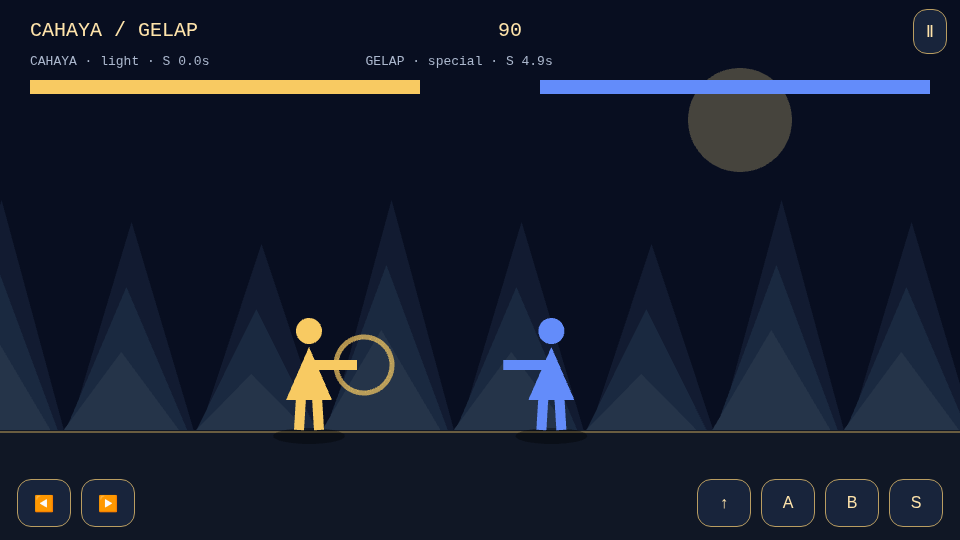
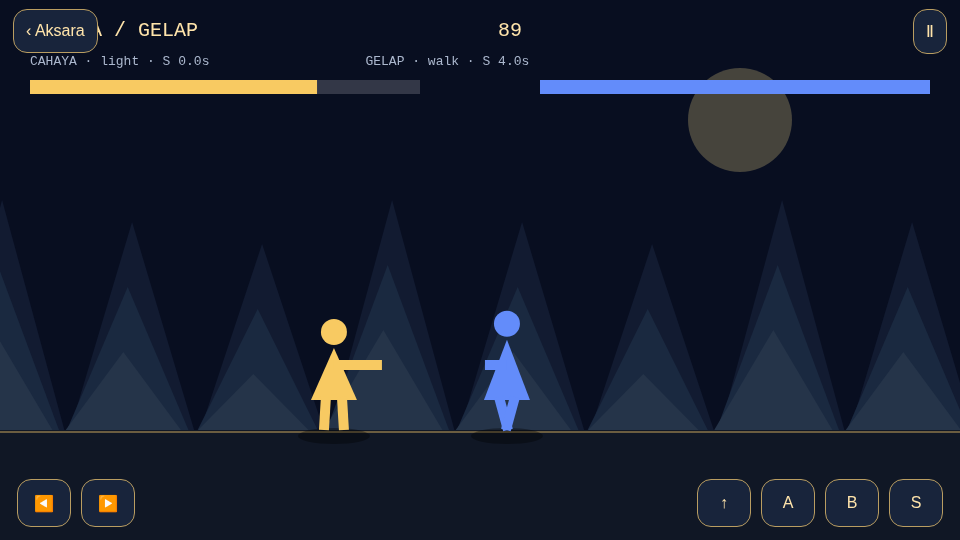
Isolate fullscreen landscape game and guard Phaser rendering with Canvas recovery

diff --git a/android-native/app/src/main/assets/game/game.js b/android-native/app/src/main/assets/game/game.js
@@ -1,15 +1,28 @@
-const input={axis:0},held=new Map();let scene,match,paused=true,audio;
+const input={axis:0},held=new Map();let scene,match=new AksaraCombat.Combat(),paused=true,audio,started=false;
 function sound(){try{audio??=new (window.AudioContext||window.webkitAudioContext)();audio.resume();const o=audio.createOscillator(),g=audio.createGain();o.type='triangle';o.frequency.setValueAtTime(180,audio.currentTime);o.frequency.exponentialRampToValueAtTime(45,audio.currentTime+.12);g.gain.setValueAtTime(.08,audio.currentTime);g.gain.exponentialRampToValueAtTime(.001,audio.currentTime+.15);o.connect(g);g.connect(audio.destination);o.start();o.stop(audio.currentTime+.16);}catch{}}
-function pause(){paused=true;held.clear();input.axis=0;input.jump=false;input.attack=null;document.querySelector('#menu').style.display='grid';document.querySelector('#message').textContent='Dijeda · sambung atau mula semula';document.querySelector('#start').textContent='Sambung';audio?.suspend();}
+function pause(){paused=true;held.clear();input.axis=0;input.jump=false;input.attack=null;document.querySelector('#menu').style.display='grid';document.querySelector('#message').textContent='Dijeda · sambung atau mula semula';document.querySelector('#start').textContent=started?'Sambung':'Mula pertarungan';audio?.suspend();}
 window.aksaraPause=pause;document.addEventListener('visibilitychange',()=>{if(document.hidden)pause();});window.addEventListener('blur',pause);
-document.querySelector('#pause').onclick=pause;document.querySelector('#start').onclick=()=>{if(!match||match.result||document.querySelector('#start').textContent!=='Sambung'){match=new AksaraCombat.Combat(document.querySelector('#hero').value,+document.querySelector('#difficulty').value);}paused=false;document.querySelector('#menu').style.display='none';sound();};
+document.querySelector('#pause').onclick=pause;document.querySelector('#start').onclick=()=>{if(!window.gameDiagnostics.ready)return;started=true;if(!match||match.result||document.querySelector('#start').textContent!=='Sambung'){match=new AksaraCombat.Combat(document.querySelector('#hero').value,+document.querySelector('#difficulty').value);}paused=false;document.querySelector('#menu').style.display='none';sound();};
 for(const b of document.querySelectorAll('#controls button')){b.onpointerdown=e=>{e.preventDefault();b.setPointerCapture(e.pointerId);held.set(e.pointerId,b);updateInput();};b.onpointerup=b.onpointercancel=b.onlostpointercapture=e=>{held.delete(e.pointerId);updateInput();};}
 function updateInput(){input.axis=0;input.jump=false;input.attack=null;for(const b of held.values()){if(b.dataset.axis)input.axis+=+b.dataset.axis;else if(b.dataset.action==='jump')input.jump=true;else input.attack=b.dataset.action;}input.axis=Math.sign(input.axis);}
 window.addEventListener('keydown',e=>{if(['ArrowLeft','ArrowRight','ArrowUp','Escape','z','x','c'].includes(e.key))e.preventDefault();if(e.key==='Escape')pause();if(e.key==='ArrowLeft')input.axis=-1;if(e.key==='ArrowRight')input.axis=1;if(e.key==='ArrowUp')input.jump=true;if('zxc'.includes(e.key))input.attack={z:'light',x:'heavy',c:'special'}[e.key];});window.addEventListener('keyup',e=>{if(e.key.startsWith('Arrow')){input.axis=0;input.jump=false;}if('zxc'.includes(e.key))input.attack=null;});
-class Arena extends Phaser.Scene{create(){scene=this;this.g=this.add.graphics();this.hud=this.add.text(30,18,'',{fontSize:'20px',color:'#ffe4ab'});this.stateText=this.add.text(30,54,'',{fontSize:'13px',color:'#acb8ce'});this.input.addPointer(5);}update(t,ms){if(!match)return;if(!paused)match.step(ms/1000,input);const g=this.g;g.clear();g.fillStyle(0x080e20);g.fillRect(0,0,960,540);g.fillStyle(0xb9aa74,.35);g.fillCircle(740,120,52);for(let layer=0;layer<3;layer++){g.fillStyle([0x121b31,0x1a2940,0x253449][layer]);for(let i=0;i<10;i++){const x=i*130-60+(match.fighters[0].x-480)*(.02+layer*.03);g.fillTriangle(x,440,x+65,200+layer*65+(i%3)*22,x+130,440);}}g.fillStyle(0x101725);g.fillRect(0,430,960,110);g.lineStyle(2,0xc5a45b,.5);g.lineBetween(0,432,960,432);
+class Arena extends Phaser.Scene{create(){console.info('AKSARA scene create');scene=this;this.game.canvas.addEventListener('webglcontextlost',()=>window.gameFailure('WebGL terhenti'));this.g=this.add.graphics();this.hud=this.add.text(30,18,'',{fontSize:'20px',color:'#ffe4ab'});this.stateText=this.add.text(30,54,'',{fontSize:'13px',color:'#acb8ce'});this.input.addPointer(5);}update(t,ms){if(!match)return;if(!paused)match.step(ms/1000,input);const g=this.g;g.clear();g.fillStyle(0x080e20);g.fillRect(0,0,960,540);g.fillStyle(0xb9aa74,.35);g.fillCircle(740,120,52);for(let layer=0;layer<3;layer++){g.fillStyle([0x121b31,0x1a2940,0x253449][layer]);for(let i=0;i<10;i++){const x=i*130-60+(match.fighters[0].x-480)*(.02+layer*.03);g.fillTriangle(x,440,x+65,200+layer*65+(i%3)*22,x+130,440);}}g.fillStyle(0x101725);g.fillRect(0,430,960,110);g.lineStyle(2,0xc5a45b,.5);g.lineBetween(0,432,960,432);
 match.fighters.forEach((f,i)=>{const color=f.id==='cahaya'?0xf8ca62:0x638cfa;g.fillStyle(0x000000,.35);g.fillEllipse(f.x,436,72,16);g.fillStyle(color,f.state==='hit'?.4:1);const bob=f.state==='walk'?Math.sin(t/65)*8:Math.sin(t/250)*2;g.fillCircle(f.x,f.y-100+bob,13);g.fillTriangle(f.x,f.y-84+bob,f.x-23,f.y-30,f.x+23,f.y-30);g.lineStyle(10,color);const stride=f.state==='walk'?Math.sin(t/70)*14:10;g.lineBetween(f.x-8,f.y-33,f.x-stride,f.y);g.lineBetween(f.x+8,f.y-33,f.x+stride,f.y);const m=AksaraCombat.moves[f.state],reach=m?48:22;g.lineBetween(f.x,f.y-65,f.x+f.facing*reach,f.y-65);if(m&&f.phase>=m.wind&&f.phase<m.wind+m.active){g.lineStyle(5,color,.7);g.strokeCircle(f.x+f.facing*(f.state==='special'?160:55),f.y-65,f.state==='special'?70:28);}g.fillStyle(0x333747);g.fillRect(i?540:30,80,390,14);g.fillStyle(color);g.fillRect(i?930-390*f.hp/100:30,80,390*f.hp/100,14);});
 for(const e of match.events){sound();this.cameras.main.shake(90,.004);}
 this.hud.setText('CAHAYA / GELAP                         '+Math.ceil(match.time));this.stateText.setText(match.fighters.map(f=>f.id.toUpperCase()+' · '+f.state+' · S '+f.cooldown.toFixed(1)+'s').join('                    '));
 if(match.result&&!paused){paused=true;document.querySelector('#menu').style.display='grid';document.querySelector('#message').textContent=match.result+' · '+match.fighters[0].id.toUpperCase();document.querySelector('#start').textContent='Main semula';}}
 }
-new Phaser.Game({type:Phaser.AUTO,parent:'game',width:960,height:540,backgroundColor:'#080c19',scale:{mode:Phaser.Scale.FIT,autoCenter:Phaser.Scale.CENTER_BOTH},scene:Arena,audio:{noAudio:true},fps:{target:60}});
+const renderer=new URLSearchParams(location.search).get('renderer');
+const game=new Phaser.Game({type:renderer==='canvas'?Phaser.CANVAS:Phaser.AUTO,parent:'game',width:960,height:540,backgroundColor:'#080c19',scale:{mode:Phaser.Scale.FIT,autoCenter:Phaser.Scale.CENTER_BOTH},scene:Arena,audio:{noAudio:true},fps:{target:60}});
+
+const viewport=document.querySelector('#game');
+new ResizeObserver(()=>{if(scene&&game.canvas&&viewport.clientWidth>0&&viewport.clientHeight>0)game.scale.refresh();}).observe(viewport);
+game.events.on(Phaser.Core.Events.POST_RENDER,()=>{
+ const d=window.gameDiagnostics,c=game.canvas,r=c.getBoundingClientRect();
+ d.frames++;d.width=r.width;d.height=r.height;d.renderer=game.renderer.type===Phaser.CANVAS?'canvas':'webgl';
+ if(!d.ready&&!d.error&&scene&&r.width>0&&r.height>0&&c.width>0&&c.height>0){
+  d.ready=true;console.info('AKSARA first frame '+JSON.stringify(d));
+  const b=document.querySelector('#start');b.disabled=false;b.textContent='Mula pertarungan';
+ }
+});
+game.events.on('contextlost',()=>window.gameFailure('Konteks grafik hilang'));

diff --git a/android-native/app/src/main/java/my/aksara/nativeapp/GameActivity.kt b/android-native/app/src/main/java/my/aksara/nativeapp/GameActivity.kt
@@ -1,0 +1,83 @@
+package my.aksara.nativeapp
+
+import android.os.Bundle
+import android.util.Log
+import android.view.ViewGroup
+import android.webkit.*
+import android.widget.*
+import androidx.activity.ComponentActivity
+import androidx.core.view.*
+import androidx.webkit.WebViewAssetLoader
+import java.io.ByteArrayInputStream
+
+/** Isolated landscape host. MainActivity and its ViewModel remain on the back stack. */
+class GameActivity : ComponentActivity() {
+    lateinit var gameWebView: WebView
+        private set
+    private lateinit var root: FrameLayout
+    private var destroyed=false
+    private var canvasFallback=false
+    override fun onCreate(savedInstanceState:Bundle?) {
+        super.onCreate(savedInstanceState)
+        WindowCompat.setDecorFitsSystemWindows(window,false)
+        WindowCompat.getInsetsController(window,window.decorView).apply {
+            hide(WindowInsetsCompat.Type.systemBars())
+            systemBarsBehavior=WindowInsetsControllerCompat.BEHAVIOR_SHOW_TRANSIENT_BARS_BY_SWIPE
+        }
+        root=FrameLayout(this)
+        root.setBackgroundColor(android.graphics.Color.rgb(8,12,25))
+        setContentView(root)
+        loadGame(intent.getBooleanExtra("forceCanvas",false))
+    }
+    private fun loadGame(canvas:Boolean) {
+        canvasFallback=canvas
+        if(::gameWebView.isInitialized){(gameWebView.parent as? ViewGroup)?.removeView(gameWebView);gameWebView.destroy()}
+        root.removeAllViews()
+        val loader=WebViewAssetLoader.Builder().addPathHandler("/assets/",WebViewAssetLoader.AssetsPathHandler(this)).build()
+        gameWebView=WebView(this).apply {
+            id=android.view.View.generateViewId()
+            settings.javaScriptEnabled=true
+            settings.allowFileAccess=false
+            settings.allowContentAccess=false
+            settings.domStorageEnabled=false
+            settings.mixedContentMode=WebSettings.MIXED_CONTENT_NEVER_ALLOW
+            webChromeClient=object:WebChromeClient(){
+                override fun onConsoleMessage(m:ConsoleMessage):Boolean {
+                    Log.println(if(m.messageLevel()==ConsoleMessage.MessageLevel.ERROR)Log.ERROR else Log.INFO,"AksaraGame", "${m.sourceId()}:${m.lineNumber()} ${m.message()}")
+                    return true
+                }
+            }
+            webViewClient=object:WebViewClient(){
+                override fun shouldOverrideUrlLoading(view:WebView,request:WebResourceRequest):Boolean {
+                    if(request.url.toString()=="https://appassets.androidplatform.net/exit")finish()
+                    return true
+                }
+                override fun shouldInterceptRequest(view:WebView,request:WebResourceRequest):WebResourceResponse =
+                    loader.shouldInterceptRequest(request.url)?:WebResourceResponse("text/plain","UTF-8",ByteArrayInputStream(ByteArray(0)))
+                override fun onReceivedError(view:WebView,request:WebResourceRequest,error:WebResourceError){
+                    Log.e("AksaraGame","WebView ${request.url}: ${error.description}")
+                    if(request.isForMainFrame)runOnUiThread{showRecovery("Fail permainan tidak dapat dimuatkan.")}
+                }
+                override fun onRenderProcessGone(view:WebView,detail:RenderProcessGoneDetail):Boolean {
+                    Log.e("AksaraGame","Renderer gone, crashed=${detail.didCrash()}")
+                    runOnUiThread{showRecovery("Renderer terhenti. Cuba Canvas atau kembali ke Aksara.")}
+                    return true
+                }
+            }
+            addOnLayoutChangeListener{_,l,t,r,b,_,_,_,_->Log.i("AksaraGame","viewport ${r-l}x${b-t}")}
+        }
+        root.addView(gameWebView,FrameLayout.LayoutParams(-1,-1))
+        gameWebView.loadUrl("https://appassets.androidplatform.net/assets/game/index.html"+if(canvas)"?renderer=canvas" else "")
+    }
+    private fun showRecovery(message:String) {
+        if(destroyed)return
+        val box=LinearLayout(this).apply{orientation=LinearLayout.VERTICAL;setPadding(32,32,32,32);setBackgroundColor(0xff101725.toInt())}
+        box.addView(TextView(this).apply{text=message;setTextColor(-1)})
+        box.addView(Button(this).apply{text="Cuba Canvas";setOnClickListener{loadGame(true)}})
+        box.addView(Button(this).apply{text="Kembali ke Aksara";setOnClickListener{finish()}})
+        root.addView(box,FrameLayout.LayoutParams(-1,-2))
+    }
+    override fun onPause(){if(::gameWebView.isInitialized){gameWebView.evaluateJavascript("window.aksaraPause && window.aksaraPause()",null);gameWebView.onPause()};super.onPause()}
+    override fun onResume(){super.onResume();if(::gameWebView.isInitialized)gameWebView.onResume()}
+    override fun onDestroy(){destroyed=true;if(::gameWebView.isInitialized){root.removeView(gameWebView);gameWebView.stopLoading();gameWebView.destroy()};super.onDestroy()}
+}

diff --git a/android-native/app/src/androidTest/java/my/aksara/nativeapp/NativeGameActivityTest.kt b/android-native/app/src/androidTest/java/my/aksara/nativeapp/NativeGameActivityTest.kt
@@ -1,0 +1,62 @@
+package my.aksara.nativeapp
+
+import android.content.Intent
+import android.content.pm.ActivityInfo
+import android.content.res.Configuration
+import android.os.SystemClock
+import androidx.test.core.app.ActivityScenario
+import androidx.test.platform.app.InstrumentationRegistry
+import androidx.test.uiautomator.UiDevice
+import org.junit.Assert.*
+import org.junit.Test
+import java.util.concurrent.CountDownLatch
+import java.util.concurrent.TimeUnit
+import java.util.concurrent.atomic.AtomicReference
+
+class NativeGameActivityTest {
+    private val instrument=InstrumentationRegistry.getInstrumentation()
+    private fun js(a:GameActivity,code:String):String {
+        val result=AtomicReference("");val done=CountDownLatch(1)
+        instrument.runOnMainSync{a.gameWebView.evaluateJavascript(code){result.set(it);done.countDown()}}
+        assertTrue(done.await(5,TimeUnit.SECONDS));return result.get()
+    }
+    private fun waitJs(a:GameActivity,code:String){
+        val until=SystemClock.uptimeMillis()+30000
+        while(SystemClock.uptimeMillis()<until){if(js(a,code)=="true")return;SystemClock.sleep(150)}
+        fail("Timed out: $code; diagnostics="+js(a,"JSON.stringify(window.gameDiagnostics)"))
+    }
+    @Test fun webglAndCanvasRenderCombatTouchRotationAndBackToChat(){
+        val device=UiDevice.getInstance(instrument)
+        ActivityScenario.launch(MainActivity::class.java).use { main ->
+            var chat:MainActivity?=null
+            main.onActivity{chat=it}
+            for(canvas in listOf(false,true)){
+                val intent=Intent(instrument.targetContext,GameActivity::class.java).putExtra("forceCanvas",canvas)
+                ActivityScenario.launch<GameActivity>(intent).use { game ->
+                    lateinit var a:GameActivity;game.onActivity{a=it}
+                    waitJs(a,"!!window.gameDiagnostics && gameDiagnostics.ready && gameDiagnostics.frames>3 && gameDiagnostics.width>0 && gameDiagnostics.height>0")
+                    assertEquals(Configuration.ORIENTATION_LANDSCAPE,a.resources.configuration.orientation)
+                    if(canvas)assertEquals("\"canvas\"",js(a,"gameDiagnostics.renderer"))
+                    js(a,"document.querySelector('#start').click()")
+                    waitJs(a,"!paused && match.elapsed>0.1 && document.querySelector('#menu').style.display==='none'")
+                    val x0=js(a,"match.fighters[0].x").toDouble()
+                    // Coordinates are derived from the real WebView/CSS viewport.
+                    val xy=js(a,"(()=>{const r=document.querySelector('[data-axis=\"1\"]').getBoundingClientRect();return [r.x+r.width/2,r.y+r.height/2,innerWidth,innerHeight].join(',')})()").trim('"').split(',').map{it.toDouble()}
+                    val loc=IntArray(2);instrument.runOnMainSync{a.gameWebView.getLocationOnScreen(loc)}
+                    val sx=loc[0]+xy[0]/xy[2]*a.gameWebView.width;val sy=loc[1]+xy[1]/xy[3]*a.gameWebView.height
+                    device.swipe(sx.toInt(),sy.toInt(),sx.toInt(),sy.toInt(),35)
+                    assertTrue("Touch must move fighter",js(a,"match.fighters[0].x").toDouble()>x0)
+                    val frames=js(a,"gameDiagnostics.frames").toInt()
+                    instrument.runOnMainSync{a.requestedOrientation=ActivityInfo.SCREEN_ORIENTATION_REVERSE_LANDSCAPE}
+                    waitJs(a,"gameDiagnostics.frames>${frames+2}")
+                    assertFalse(a.isDestroyed)
+                    device.takeScreenshot(java.io.File(instrument.targetContext.getExternalFilesDir(null),"game-${if(canvas)"canvas" else "auto"}.png"))
+                    js(a,"window.aksaraPause()")
+                    assertEquals("true",js(a,"paused"))
+                    device.pressBack()
+                }
+                main.onActivity{assertSame("Chat activity should survive game rotation",chat,it);assertEquals(Configuration.ORIENTATION_PORTRAIT,it.resources.configuration.orientation)}
+            }
+        }
+    }
+}

diff --git a/android-native/app/src/main/assets/game/index.html b/android-native/app/src/main/assets/game/index.html
@@ -1,5 +1,5 @@
 <!doctype html><html lang="ms"><meta charset="utf-8"><meta name="viewport" content="width=device-width,initial-scale=1,viewport-fit=cover"><title>AKSARA — Cahaya vs Gelap</title><style>
-*{box-sizing:border-box}body{margin:0;background:#080c19;color:#eeddb4;font:16px sans-serif;touch-action:none}canvas{display:block}#menu{position:absolute;inset:0;display:grid;place-content:center;text-align:center;background:#080c19ed;z-index:3;padding:18px}button,select{font:inherit;color:#ffe4ab;background:#18243b;border:1px solid #b99d61;border-radius:14px;padding:12px;margin:5px}#controls{position:absolute;bottom:max(8px,env(safe-area-inset-bottom));left:12px;right:12px;display:flex;justify-content:space-between}#controls button{min-width:54px;min-height:48px;touch-action:none;user-select:none}#pause{position:absolute;right:8px;top:4px}small{color:#acb8ce}h1{font-size:24px}</style>
+*{box-sizing:border-box}body{margin:0;background:#080c19;color:#eeddb4;font:16px sans-serif;touch-action:none}html,body{width:100%;height:100%;overflow:hidden}#game{position:absolute;inset:0;width:100vw;height:100vh;height:100dvh}canvas{display:block}#menu{overflow:auto;position:absolute;inset:0;display:grid;place-content:center;text-align:center;background:#080c19ed;z-index:3;padding:18px}button,select{font:inherit;color:#ffe4ab;background:#18243b;border:1px solid #b99d61;border-radius:14px;padding:12px;margin:5px}#controls{position:absolute;bottom:max(8px,env(safe-area-inset-bottom));left:12px;right:12px;display:flex;justify-content:space-between}#controls button{min-width:54px;min-height:48px;touch-action:none;user-select:none}#pause{position:absolute;right:8px;top:4px}small{color:#acb8ce}h1{font-size:24px}</style>
 <div id="game"></div><button id="pause">Ⅱ</button><div id="controls"><div><button data-axis="-1">◀</button><button data-axis="1">▶</button></div><div><button data-action="jump">↑</button><button data-action="light">A</button><button data-action="heavy">B</button><button data-action="special">S</button></div></div>
-<div id="menu"><h1>AKSARA<br>CAHAYA VS GELAP</h1><p id="message">Arena latihan · seni pembangunan sementara</p><select id="hero"><option value="cahaya">CAHAYA · pantas</option><option value="gelap">GELAP · kuat</option></select><select id="difficulty"><option value="0">Mudah</option><option value="1" selected>Sederhana</option><option value="2">Sukar</option></select><button id="start">Mula pertarungan</button><small>A: ringan · B: berat · S: tenaga (5s)<br>Papan kekunci: ← → ↑ Z X C · Esc jeda</small></div>
-<script src="phaser.min.js"></script><script src="combat.js"></script><script src="game.js"></script></html>
+<div id="menu"><h1>AKSARA<br>CAHAYA VS GELAP</h1><p id="message">Arena latihan · seni pembangunan sementara</p><select id="hero"><option value="cahaya">CAHAYA · pantas</option><option value="gelap">GELAP · kuat</option></select><select id="difficulty"><option value="0">Mudah</option><option value="1" selected>Sederhana</option><option value="2">Sukar</option></select><button id="start" disabled>Memuatkan renderer…</button><small>A: ringan · B: berat · S: tenaga (5s)<br>Papan kekunci: ← → ↑ Z X C · Esc jeda</small></div>
+<button id="exit" onclick="location.href='https://appassets.androidplatform.net/exit'" style="position:absolute;top:4px;left:8px;z-index:4" aria-label="Kembali ke Aksara">‹ Aksara</button><script src="boot.js"></script><script src="phaser.min.js"></script><script src="combat.js"></script><script src="game.js"></script></html>

diff --git a/android-native/app/src/main/java/my/aksara/nativeapp/feature/tools/GameContent.kt b/android-native/app/src/main/java/my/aksara/nativeapp/feature/tools/GameContent.kt
@@ -1,54 +1,15 @@
 package my.aksara.nativeapp.feature.tools
 
-import android.app.Activity
-import android.content.pm.ActivityInfo
-import android.webkit.*
-import androidx.webkit.WebViewAssetLoader
+import android.content.Intent
 import androidx.compose.runtime.*
-import androidx.compose.foundation.layout.*
-import androidx.compose.ui.Modifier
 import androidx.compose.ui.platform.LocalContext
-import androidx.compose.ui.unit.dp
-import androidx.compose.ui.viewinterop.AndroidView
-import androidx.lifecycle.Lifecycle
-import androidx.lifecycle.LifecycleEventObserver
-import androidx.lifecycle.compose.LocalLifecycleOwner
-import my.aksara.nativeapp.core.design.*
-import java.io.ByteArrayInputStream
+import my.aksara.nativeapp.GameActivity
 
+/** Launch a separate window; never rotate or resize the live Chat composition. */
 @Composable fun GameContent(onClose:()->Unit) {
     val context=LocalContext.current
-    val owner=LocalLifecycleOwner.current
-    val web=remember(context){
-        val loader=WebViewAssetLoader.Builder().addPathHandler("/assets/",WebViewAssetLoader.AssetsPathHandler(context)).build()
-        WebView(context).apply {
-            settings.javaScriptEnabled=true
-            settings.allowFileAccess=false
-            settings.allowContentAccess=false
-            settings.domStorageEnabled=false
-            settings.mixedContentMode=WebSettings.MIXED_CONTENT_NEVER_ALLOW
-            webViewClient=object:WebViewClient(){
-                override fun shouldOverrideUrlLoading(view:WebView,request:WebResourceRequest)=true
-                override fun shouldInterceptRequest(view:WebView,request:WebResourceRequest):WebResourceResponse =
-                    loader.shouldInterceptRequest(request.url)?:WebResourceResponse("text/plain","UTF-8",ByteArrayInputStream(ByteArray(0)))
-            }
-            loadUrl("https://appassets.androidplatform.net/assets/game/index.html")
-        }
-    }
-    DisposableEffect(web,owner){
-        val activity=context as? Activity
-        val previous=activity?.requestedOrientation
-        activity?.requestedOrientation=ActivityInfo.SCREEN_ORIENTATION_SENSOR_LANDSCAPE
-        val observer=LifecycleEventObserver{_,event->when(event){
-            Lifecycle.Event.ON_PAUSE->{web.evaluateJavascript("window.aksaraPause?.()",null);web.onPause()}
-            Lifecycle.Event.ON_RESUME->web.onResume()
-            else->Unit
-        }}
-        owner.lifecycle.addObserver(observer)
-        onDispose {owner.lifecycle.removeObserver(observer);if(previous!=null)activity?.requestedOrientation=previous;web.stopLoading();web.loadUrl("about:blank");web.removeAllViews();web.destroy()}
-    }
-    Column(Modifier.fillMaxSize().padding(8.dp)){
-        AksaraButton("‹ Kembali ke Aksara",onClose,Modifier.height(40.dp))
-        AndroidView(factory={web},modifier=Modifier.fillMaxWidth().weight(1f))
+    LaunchedEffect(Unit) {
+        context.startActivity(Intent(context,GameActivity::class.java))
+        onClose()
     }
 }

diff --git a/android-native/app/src/main/java/my/aksara/nativeapp/feature/chat/AksaraOverlay.kt b/android-native/app/src/main/java/my/aksara/nativeapp/feature/chat/AksaraOverlay.kt
@@ -75,7 +75,7 @@ import my.aksara.nativeapp.feature.tools.*
             maxOf(73.dp,(24f+18.2f+4f+15.75f*lines).dp)
         }
         Box(Modifier.fillMaxSize().hazeSource(modalBackdrop).hazeEffect(haze,HazeStyle(tints=emptyList(), backgroundColor=Color(0xff070911),blurRadius=14.dp,noiseFactor=0f)).background(AksaraModalStyle.scrim).clickable(onClick=onClose))
-        val height=when(kind){"external-home"->245.dp;"response-details"->375.dp;"connection"->453.dp;"code"->minOf(740.dp,h-28.dp);"terminal"->minOf(650.dp,h*.82f);"portal"->minOf(345.dp,h-32.dp);"thinking"->226.dp+modeHeights.fold(0.dp){total,item->total+item};"attachments"->384.dp;"voice-permission"->280.594.dp;"studio"->minOf(730.dp,h-32.dp);"library"->minOf(710.dp,h-32.dp);"novel"->minOf(750.dp,h-32.dp);"knowledge"->minOf(550.dp,h-36.dp);"metrics"->minOf(640.dp,h-36.dp);"security"->minOf(540.dp,h-36.dp);"engines"->minOf(520.dp,h-36.dp);else->minOf(650.dp,h-60.dp)}
+        val height=when(kind){"external-home"->245.dp;"response-details"->375.dp;"connection"->453.dp;"code"->minOf(740.dp,h-28.dp);"terminal"->minOf(650.dp,h*.82f);"portal"->minOf(470.dp,h-32.dp);"thinking"->226.dp+modeHeights.fold(0.dp){total,item->total+item};"attachments"->384.dp;"voice-permission"->280.594.dp;"studio"->minOf(730.dp,h-32.dp);"library"->minOf(710.dp,h-32.dp);"novel"->minOf(750.dp,h-32.dp);"knowledge"->minOf(550.dp,h-36.dp);"metrics"->minOf(640.dp,h-36.dp);"security"->minOf(540.dp,h-36.dp);"engines"->minOf(520.dp,h-36.dp);else->minOf(650.dp,h-60.dp)}
         val side=when(kind){"terminal"->14.dp;"voice-permission"->15.dp;else->17.dp}+4.dp
         CompositionLocalProvider(LocalBackdrop provides modalBackdrop) {
         AksaraGlassSurface(Modifier.align(Alignment.Center).padding(horizontal=side).widthIn(max=680.dp).fillMaxWidth().heightIn(max=h-maxOf(28.dp,margins.top+margins.bottom+16.dp)).height(height).testTag("aksara-glass-modal").clickable(enabled=false){},

diff --git a/android-native/app/src/androidTest/java/my/aksara/nativeapp/StudioV2UiTest.kt b/android-native/app/src/androidTest/java/my/aksara/nativeapp/StudioV2UiTest.kt
@@ -27,13 +27,13 @@ class StudioV2UiTest {
         compose.onNodeWithText("Galeri Studio").assertExists()
         compose.onNodeWithText("Sejarah").performClick()
         compose.onNodeWithText("Sejarah penjanaan").assertExists()
-        compose.onNodeWithText("Tetapan").performClick()
+        compose.onNodeWithText("Tetapan").performScrollTo().performClick()
         compose.onNodeWithText("Backend Cloud:",substring=true).assertExists()
         compose.onNodeWithText("Jana Imej").performClick()
         compose.onNodeWithText("Enjin Penjanaan").assertExists()
         compose.onNodeWithText("Pilihan Penjanaan").assertDoesNotExist()
         compose.onNodeWithText("Gaya").assertDoesNotExist()
-        compose.onNodeWithText("Tetapan").performClick()
+        compose.onNodeWithText("Tetapan").performScrollTo().performClick()
         compose.onNodeWithText("Pilihan Penjanaan").assertExists()
         compose.onNodeWithText("Model Cloud").assertExists()
         // These are static headings, not interactable scroll targets. Compose's
@@ -50,7 +50,7 @@ class StudioV2UiTest {
         compose.onNodeWithText("Poster").performScrollTo().performClick()
         compose.onNodeWithContentDescription("Apa yang kau nak lihat?")
             .assertTextContains("editorial poster",substring=true)
-        compose.onNodeWithText("Tetapan").performClick()
+        compose.onNodeWithText("Tetapan").performScrollTo().performClick()
         compose.onNodeWithText("Pilihan Penjanaan").assertExists()
         compose.onNodeWithText("Gaya").assertDoesNotExist()
     }

diff --git a/android-native/app/src/androidTest/java/my/aksara/nativeapp/PortalLayoutTest.kt b/android-native/app/src/androidTest/java/my/aksara/nativeapp/PortalLayoutTest.kt
@@ -1,0 +1,22 @@
+package my.aksara.nativeapp
+
+import androidx.compose.foundation.layout.*
+import androidx.compose.ui.Modifier
+import androidx.compose.ui.unit.dp
+import androidx.compose.ui.test.*
+import androidx.compose.ui.test.junit4.createAndroidComposeRule
+import my.aksara.nativeapp.feature.chat.*
+import org.junit.Rule
+import org.junit.Test
+
+class PortalLayoutTest {
+    @get:Rule val compose=createAndroidComposeRule<VisualTestActivity>()
+    @Test fun fourPortalItemsRemainReachableOnShortScreen(){
+        compose.setContent { Box(Modifier.fillMaxWidth().height(360.dp)) {
+            AksaraScreen(ChatState(loaded=true),initialOverlay="portal")
+        }}
+        for(label in listOf("Laman Utama","Game · Cahaya vs Gelap","Studio · Jana Imej","Novel · Perpustakaan AKSARA")) {
+            compose.onNodeWithText(label).performScrollTo().assertIsDisplayed()
+        }
+    }
+}

diff --git a/android-native/app/src/main/assets/game/boot.js b/android-native/app/src/main/assets/game/boot.js
@@ -1,0 +1,12 @@
+window.gameDiagnostics={ready:false,frames:0,renderer:'pending',width:0,height:0,error:null};
+window.gameFailure=function(reason){
+ const d=window.gameDiagnostics;d.error=String(reason);d.ready=false;
+ console.error('AKSARA runtime failure: '+reason);
+ const menu=document.querySelector('#menu');menu.style.display='grid';
+ document.querySelector('#message').textContent='Permainan gagal dimulakan: '+reason;
+ const b=document.querySelector('#start');b.disabled=false;b.textContent='Cuba renderer Canvas';
+ b.onclick=()=>{location.href=location.pathname+'?renderer=canvas'};
+};
+window.addEventListener('error',e=>window.gameFailure(e.message||'Ralat JavaScript'));
+window.addEventListener('unhandledrejection',e=>window.gameFailure(e.reason));
+setTimeout(()=>{if(!window.gameDiagnostics.ready)window.gameFailure('Tiada bingkai renderer. Cuba Canvas.');},12000);
